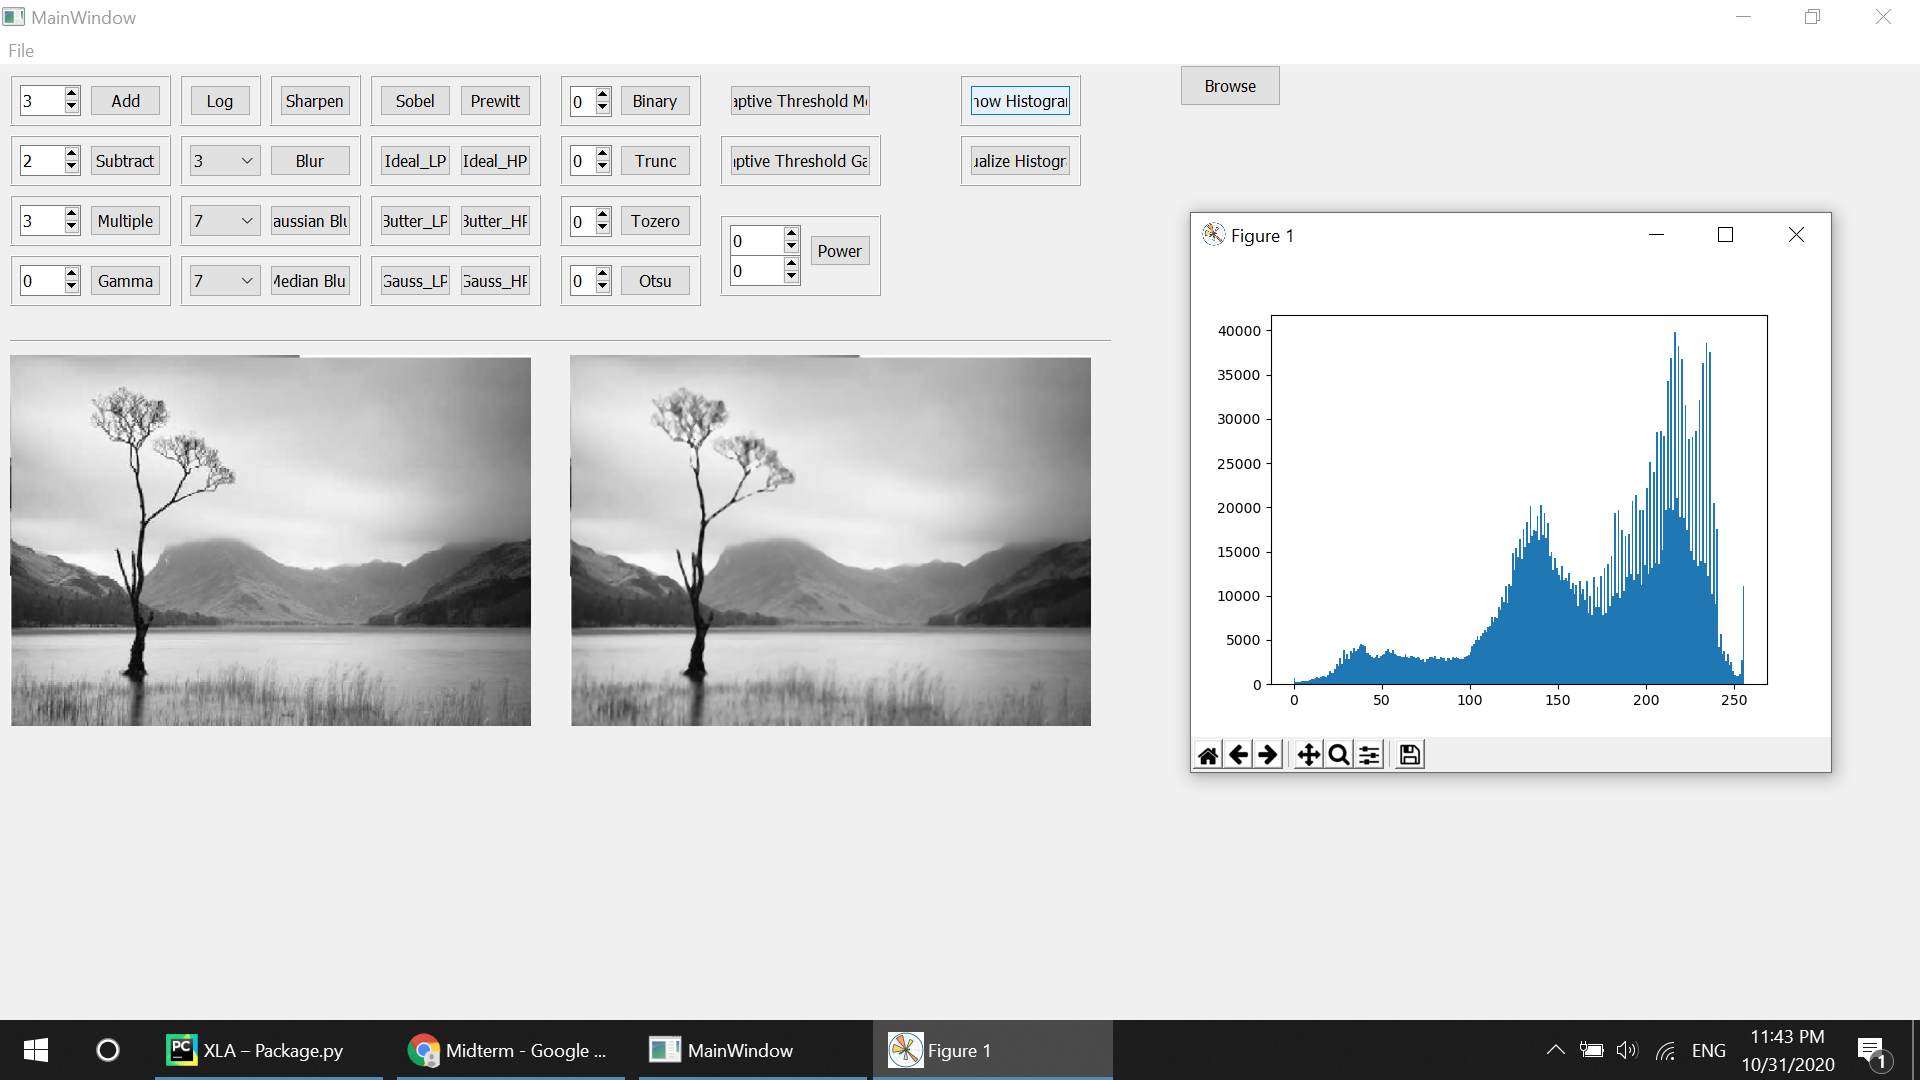
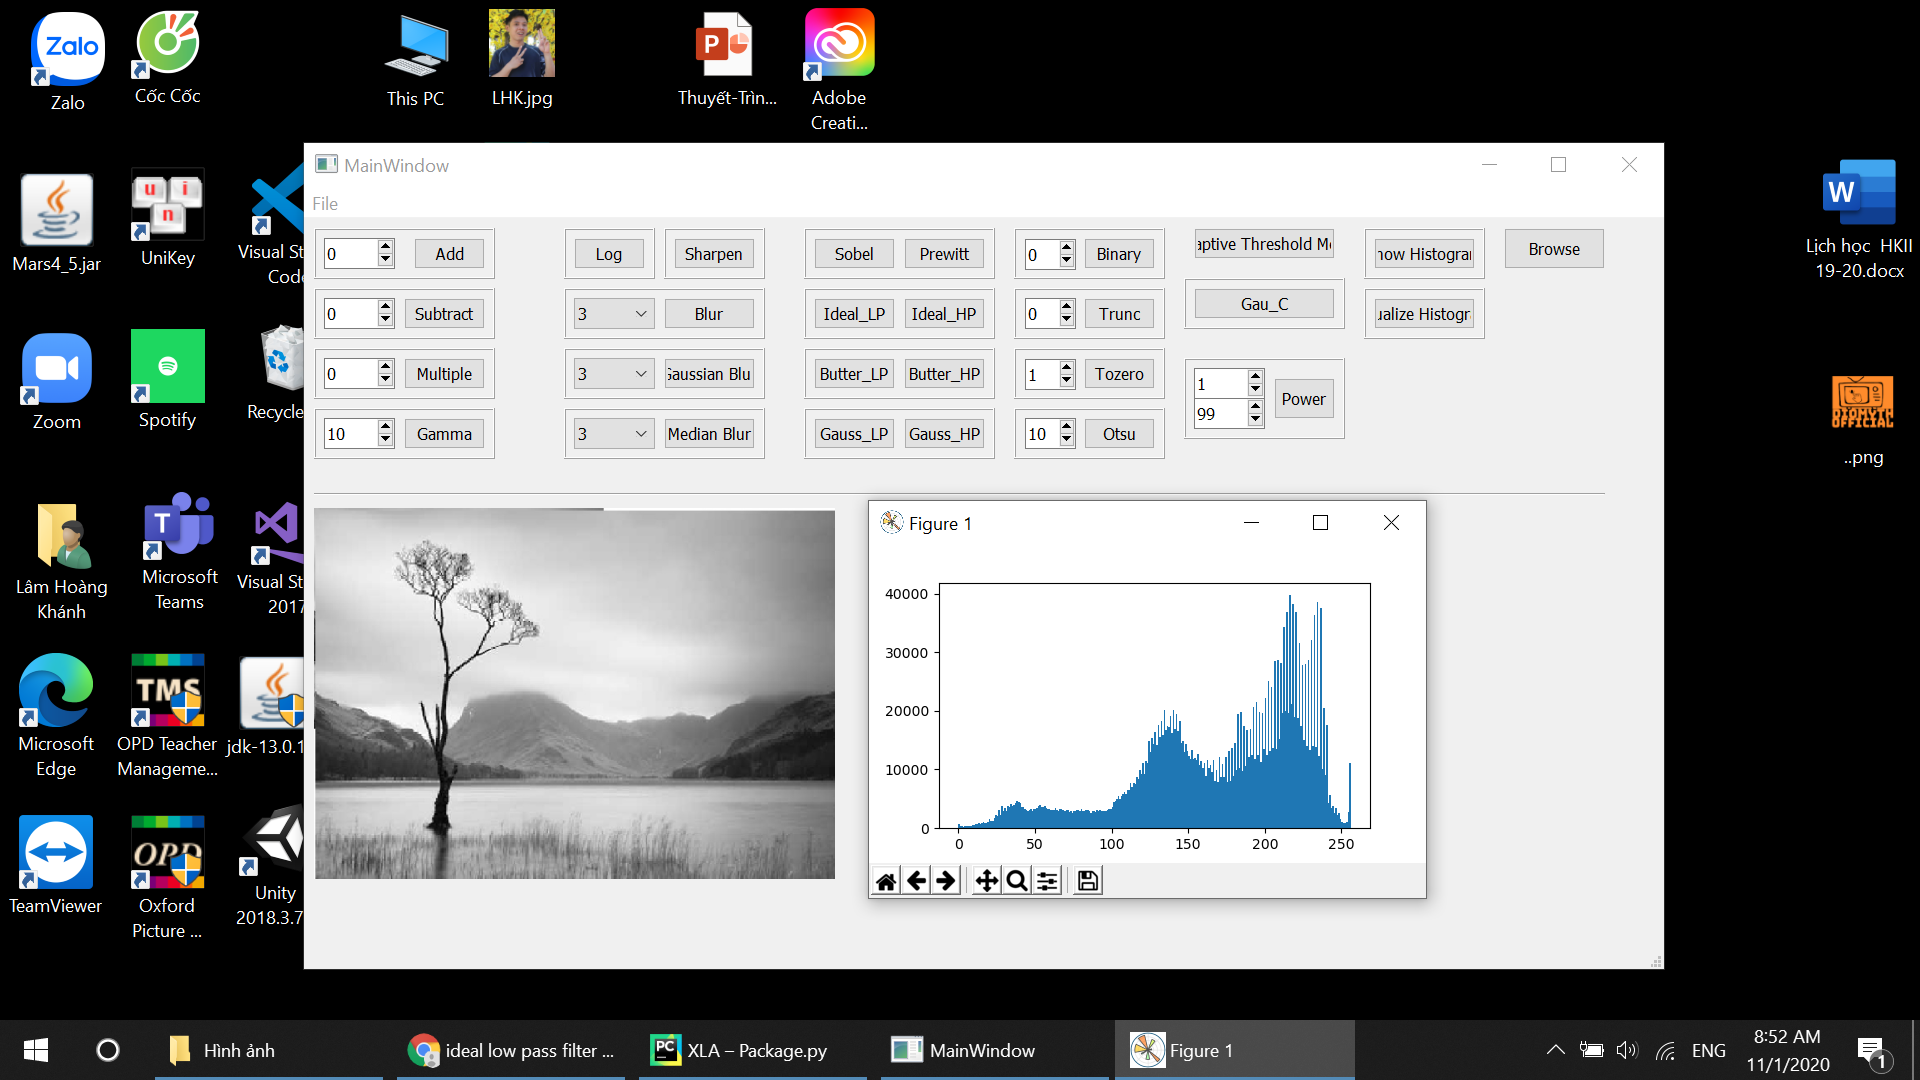
go

diff --git a/Exercise/XLA/Package.py b/Exercise/XLA/Package.py
@@ -106,28 +106,21 @@ class MyWindow(QMainWindow):
         self.tozeroValue = self.findChild(QSpinBox,'tozeroValue')
         self.tozeroThreshold.clicked.connect(self.threshold_tozero)
         # Otsu Threshold
-     
         self.otsuThreshold = self.findChild(QPushButton, 'otsuBtn')
         self.otsuValue = self.findChild(QSpinBox, 'otsuValue')
         self.otsuThreshold.clicked.connect(self.threshold_otsu)
         # Adap Mean Threshold
-        # Error
         self.adapMeanBtn = self.findChild(QPushButton, 'adapMean')
         self.adapMeanBtn.clicked.connect(self.threshold_mean_C)
         # Adap Gauss Threshold
-        # Error
         self.adapGauBtn = self.findChild(QPushButton, 'adapGauss')
         self.adapGauBtn.clicked.connect(self.threshold_gaussian_C)
         # Sobel
-        # Error
         self.sobelBtn = self.findChild(QPushButton, 'sobelBtn')
         self.sobelBtn.clicked.connect(self.sobel)
         # Prewitt
-        # Error
         self.prewittButton = self.findChild(QPushButton,'prewittBtn')
         self.prewittButton.clicked.connect(self.prewitt)
-
-
 
         self.show()
     def cv2_to_pixmap(self, img):
@@ -142,17 +135,6 @@ class MyWindow(QMainWindow):
         pixmap = QPixmap(self.imgPath)
         self.img = cv2.imread(self.imgPath)
         self.imgOriginal.setPixmap(QPixmap(pixmap))
-    # def type(self):
-    #     image = self.ffImage
-    #     value = self.sizeImg.currentIndex()*2+1
-    #     if(self.typeImg.currentIndex() == 1):
-    #         image = cv2.blur(self.ffImage, (value,value))
-    #     elif(self.typeImg.currentIndex() == 2):
-    #         image = cv2.GaussianBlur(self.ffImage, (value,value),0)
-    #     elif(self.typeImg.currentIndex() == 3):
-    #         image = cv2.medianBlur(self.ffImage,value)
-    #     # cv2.imshow('test',image)
-    #     self.labelImg.setPixmap(QPixmap(image))
 
     def light(self):
         Img = cv2.imread(self.imgPath)
@@ -199,11 +181,15 @@ class MyWindow(QMainWindow):
         plt.hist(Img.ravel(),256,[0,256])
         plt.show()
     def equalize_histogram(self):
-        Img = cv2.imread(self.imgPath)
+        Img = cv2.imread(self.imgPath,0)
         equal_hist_img = cv2.equalizeHist(Img)
-        res = np.hstack((Img,equal_hist_img))
         plt.hist(equal_hist_img.ravel(),256,[0,256])
+        cv2.imwrite('equal.png', equal_hist_img)
+        equal_hist_img = cv2.imread('equal.png')
+        qImg = self.cv2_to_pixmap(equal_hist_img)
+        self.imgRes.setPixmap(QPixmap(qImg))
         plt.show()
+
 
     def filter2D(self, Matrix):
         Img = cv2.imread(self.imgPath)
@@ -255,7 +241,7 @@ class MyWindow(QMainWindow):
         self.imgRes.setPixmap(QPixmap(qImg))
 
     def ideal_lp(self):
-        Img = cv2.imread(self.imgPath)
+        Img = cv2.imread(self.imgPath,0)
         sx, sy = Img.shape[:2]
         x = np.arange(-(sx) / 2, (sx) / 2)  # tâm là (0,0)
         y = np.arange(-(sy) / 2, (sy) / 2)
@@ -275,6 +261,8 @@ class MyWindow(QMainWindow):
         img_apply = g * H  # apply filter
         img_ideal_lp = abs(np.fft.ifft2(np.fft.ifftshift(img_apply)))
         img_ideal = np.uint8(img_ideal_lp)
+        cv2.imwrite('ideallp.png', img_ideal)
+        img_ideal = cv2.imread('ideallp.png')
         qImg = self.cv2_to_pixmap(img_ideal)
         self.imgRes.setPixmap(QPixmap(qImg))
     def butterworth_lp(self):
@@ -341,7 +329,7 @@ class MyWindow(QMainWindow):
         qImg = self.cv2_to_pixmap(img_ideal_hp)
         self.imgRes.setPixmap(QPixmap(qImg))
     def butterworth_hp(self):
-        Img = cv2.imread(self.imgPath)
+        Img = cv2.imread(self.imgPath,0)
         d0 =50
         n = 2
         sx, sy = Img.shape[:2]
@@ -383,34 +371,43 @@ class MyWindow(QMainWindow):
         self.imgRes.setPixmap(QPixmap(qImg))
 
     def threshold_binary(self):
-        Img = cv2.imread(self.imgPath)
+        Img = cv2.imread(self.imgPath,0)
         value = self.binaryValue.value()
         ret, img_binary = cv2.threshold(Img, value, 255, cv2.THRESH_BINARY)
+        cv2.imwrite('binary.png', img_binary)
+        img_binary = cv2.imread('binary.png')
         qImg = self.cv2_to_pixmap(img_binary)
         self.imgRes.setPixmap(QPixmap(qImg))
     def threshold_tozero(self):
-        Img = cv2.imread(self.imgPath)
+        Img = cv2.imread(self.imgPath,0)
         value = self.tozeroValue.value()
         ret, img_tozero = cv2.threshold(Img, value, 255, cv2.THRESH_TOZERO)
+        cv2.imwrite('tozero.png', img_tozero)
+        img_tozero = cv2.imread('tozero.png')
         qImg = self.cv2_to_pixmap(img_tozero)
         self.imgRes.setPixmap(QPixmap(qImg))
     def threshold_trunc(self):
-        Img = cv2.imread(self.imgPath)
+        Img = cv2.imread(self.imgPath,0)
         value = self.truncValue.value()
         ret, img_trunc = cv2.threshold(Img, value, 255, cv2.THRESH_TRUNC)
+        cv2.imwrite('otsu.png', img_trunc)
+        img_trunc = cv2.imread('otsu.png')
         qImg = self.cv2_to_pixmap(img_trunc)
         self.imgRes.setPixmap(QPixmap(qImg))
     def threshold_otsu(self):
-        Img = cv2.imread(self.imgPath)
+        Img = cv2.imread(self.imgPath,0)
         value = self.otsuValue.value()
         ret, img_otsu = cv2.threshold(Img, value, 255, cv2.THRESH_OTSU)
+        cv2.imwrite('otsu.png', img_otsu)
+        img_otsu = cv2.imread('otsu.png')
         qImg = self.cv2_to_pixmap(img_otsu)
         self.imgRes.setPixmap(QPixmap(qImg))
     def threshold_mean_C(self):
-        Img = cv2.imread(self.imgPath)
+        Img = cv2.imread(self.imgPath,0)
         img_threshold = cv2.adaptiveThreshold(Img, 255, cv2.ADAPTIVE_THRESH_MEAN_C, \
                                               cv2.THRESH_BINARY,11, 2)
-        cv2.imread()
+        cv2.imwrite('meanc.png', img_threshold)
+        img_threshold = cv2.imread('meanc.png')
         qImg = self.cv2_to_pixmap(img_threshold)
         self.imgRes.setPixmap(QPixmap(qImg))
     def threshold_gaussian_C(self):
